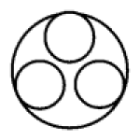
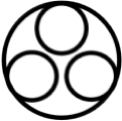
強化ゲージ3色表示

diff --git a/GFF2-4B/GFF2-4B/PowerGauge.cpp b/GFF2-4B/GFF2-4B/PowerGauge.cpp
@@ -2,18 +2,18 @@
 
 PowerGauge::PowerGauge()
 {
-	magenta.x = 0.0f;
-	magenta.y = 0.0f;
+	magenta.x = 387.0f;
+	magenta.y = 68.0f;
 	magenta.volume = 0.0f;
 	magenta.maxFlg = 0;
 
-	cyan.x = 0.0f;
-	cyan.y = 0.0f;
+	cyan.x = 419.0f;
+	cyan.y = 114.0f;
 	cyan.volume = 0.0f;
 	cyan.maxFlg = 0;
 
-	yellow.x = 0.0f;
-	yellow.y = 0.0f;
+	yellow.x = 360.0f;
+	yellow.y = 114.0f;
 	yellow.volume = 0.0f;
 	yellow.maxFlg = 0;
 
@@ -32,8 +32,11 @@ void PowerGauge::Update()
 
 void PowerGauge::Draw() const
 {
+	
+	DrawGraph(285, 10, image[2], TRUE);
+	DrawBox((int)magenta.x - 50, (int)magenta.y - 45, (int)magenta.x, (int)magenta.y, 0xe4007f, TRUE);
+	DrawBox((int)yellow.x - 50, (int)yellow.y - 45, (int)yellow.x, (int)yellow.y, 0xffff00, TRUE);
+	DrawBox((int)cyan.x - 50, (int)cyan.y - 45, (int)cyan.x, (int)cyan.y, 0x00FFFF, TRUE);
+	DrawGraph(300, 17, image[1], TRUE);
 	DrawGraph(285, 10, image[0], TRUE);
-	DrawBox(347, 18, 392, 65, 0xe4007f, TRUE);
-	DrawGraph(300, 3, image[1], TRUE);
-	//DrawGraph(300, 0, image[2], TRUE);
 }
